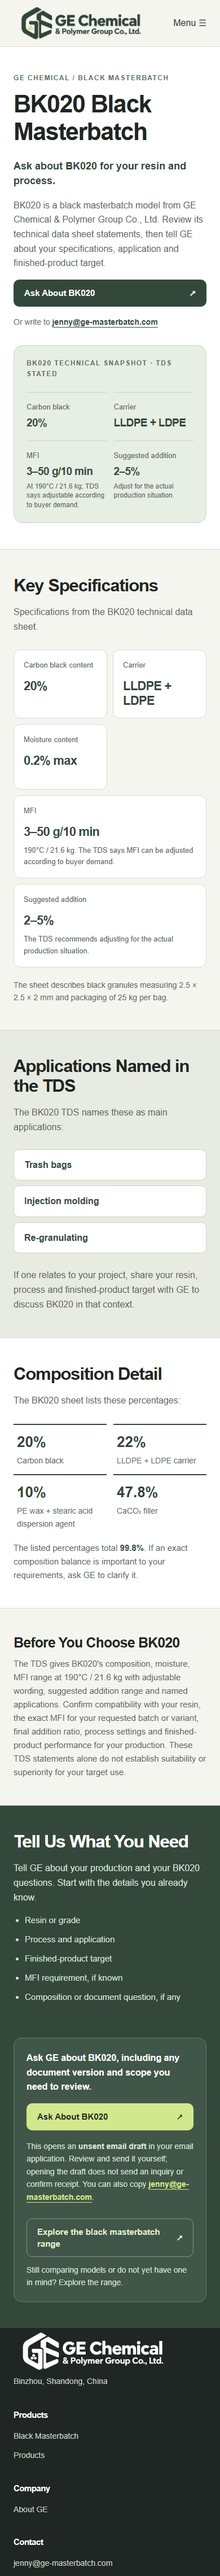
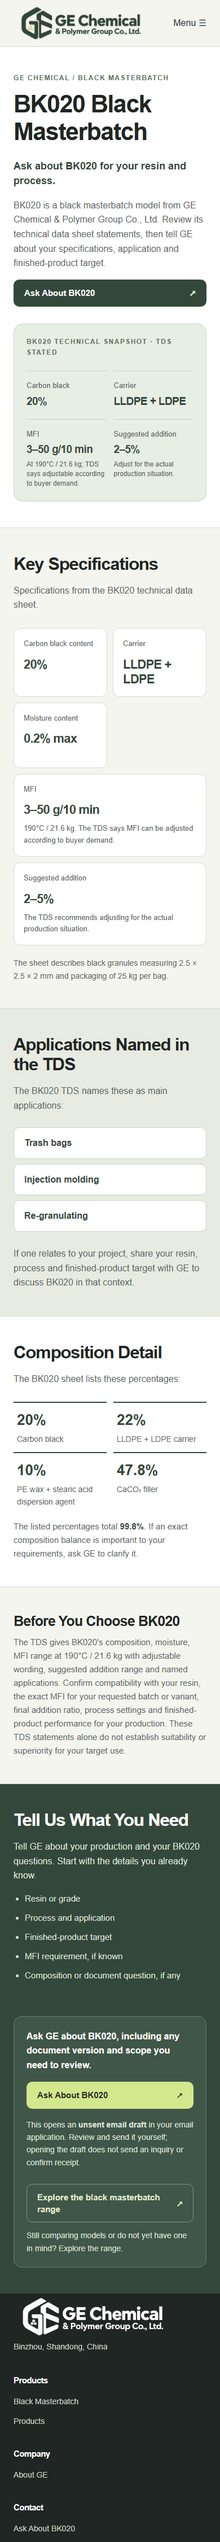
Remove displayed email from P017 visual

diff --git a/planning/visuals/P017/p017-visual.html b/planning/visuals/P017/p017-visual.html
@@ -1,10 +1,10 @@
 <!doctype html><html lang="en"><head><meta charset="utf-8"><meta name="viewport" content="width=device-width, initial-scale=1"><title>BK020 Black Masterbatch | GE Chemical</title><meta name="description" content="Explore BK020 black masterbatch: composition, moisture, MFI and TDS-stated uses. Discuss your resin, process and target with GE."><link rel="stylesheet" href="p017-visual.css"></head><body>
 <header class="site-header"><div class="shell header-inner"><a class="brand" href="/" aria-label="GE Chemical homepage"><img src="../P001/assets/ge-logo-candidate.png" alt="GE Chemical &amp; Polymer Group Co., Ltd."></a><nav class="desktop-nav" aria-label="Primary navigation"><a href="/products/black-masterbatch/">Black Masterbatch</a><a href="/products/">Products</a><a href="/applications/">Applications</a><a href="/about/">About GE</a></nav><a class="header-inquiry" href="mailto:jenny@ge-masterbatch.com?subject=BK020%20evaluation%20question">Ask About BK020 ↗</a><details class="mobile-menu"><summary>Menu ☰</summary><nav aria-label="Mobile navigation"><a href="/products/black-masterbatch/">Black Masterbatch</a><a href="/products/">Products</a><a href="/applications/">Applications</a><a href="/about/">About GE</a><a href="mailto:jenny@ge-masterbatch.com?subject=BK020%20evaluation%20question">Ask About BK020</a></nav></details></div></header>
 <main>
-<section class="hero module"><div class="shell hero-layout"><div class="hero-copy"><p class="eyebrow">GE Chemical / Black masterbatch</p><h1>BK020 Black Masterbatch</h1><p class="lead">Ask about BK020 for your resin and process.</p><p>BK020 is a black masterbatch model from GE Chemical &amp; Polymer Group Co., Ltd. Review its technical data sheet statements, then tell GE about your specifications, application and finished-product target.</p><a class="btn primary" href="mailto:jenny@ge-masterbatch.com?subject=BK020%20evaluation%20question">Ask About BK020 <span aria-hidden="true">↗</span></a><p class="direct">Or write to <a href="mailto:jenny@ge-masterbatch.com">jenny@ge-masterbatch.com</a></p></div><div class="snapshot"><p class="snapshot-label">BK020 technical snapshot · TDS stated</p><div class="snapshot-grid"><div><span>Carbon black</span><strong>20%</strong></div><div><span>Carrier</span><strong>LLDPE + LDPE</strong></div><div><span>MFI</span><strong>3–50 g/10 min</strong><small>At 190°C / 21.6 kg; TDS says adjustable according to buyer demand.</small></div><div><span>Suggested addition</span><strong>2–5%</strong><small>Adjust for the actual production situation.</small></div></div></div></div></section>
+<section class="hero module"><div class="shell hero-layout"><div class="hero-copy"><p class="eyebrow">GE Chemical / Black masterbatch</p><h1>BK020 Black Masterbatch</h1><p class="lead">Ask about BK020 for your resin and process.</p><p>BK020 is a black masterbatch model from GE Chemical &amp; Polymer Group Co., Ltd. Review its technical data sheet statements, then tell GE about your specifications, application and finished-product target.</p><a class="btn primary" href="mailto:jenny@ge-masterbatch.com?subject=BK020%20evaluation%20question">Ask About BK020 <span aria-hidden="true">↗</span></a></div><div class="snapshot"><p class="snapshot-label">BK020 technical snapshot · TDS stated</p><div class="snapshot-grid"><div><span>Carbon black</span><strong>20%</strong></div><div><span>Carrier</span><strong>LLDPE + LDPE</strong></div><div><span>MFI</span><strong>3–50 g/10 min</strong><small>At 190°C / 21.6 kg; TDS says adjustable according to buyer demand.</small></div><div><span>Suggested addition</span><strong>2–5%</strong><small>Adjust for the actual production situation.</small></div></div></div></div></section>
 <section class="specs module"><div class="shell"><div class="intro"><h2>Key Specifications</h2><p>Specifications from the BK020 technical data sheet.</p></div><div class="spec-grid"><div class="spec"><span>Carbon black content</span><strong>20%</strong></div><div class="spec"><span>Carrier</span><strong>LLDPE + LDPE</strong></div><div class="spec"><span>Moisture content</span><strong>0.2% max</strong></div><div class="spec"><span>MFI</span><strong>3–50 g/10 min</strong><p>190°C / 21.6 kg. The TDS says MFI can be adjusted according to buyer demand.</p></div><div class="spec"><span>Suggested addition</span><strong>2–5%</strong><p>The TDS recommends adjusting for the actual production situation.</p></div></div><p class="minor-detail">The sheet describes black granules measuring 2.5 × 2.5 × 2 mm and packaging of 25 kg per bag.</p></div></section>
 <section class="uses module"><div class="shell"><div class="intro"><h2>Applications Named in the TDS</h2><p>The BK020 TDS names these as main applications:</p></div><div class="use-grid"><div>Trash bags</div><div>Injection molding</div><div>Re-granulating</div></div><p class="use-note">If one relates to your project, share your resin, process and finished-product target with GE to discuss BK020 in that context.</p></div></section>
 <section class="composition module"><div class="shell"><div class="intro"><h2>Composition Detail</h2><p>The BK020 sheet lists these percentages:</p></div><div class="composition-grid"><div><strong>20%</strong><span>Carbon black</span></div><div><strong>22%</strong><span>LLDPE + LDPE carrier</span></div><div><strong>10%</strong><span>PE wax + stearic acid dispersion agent</span></div><div><strong>47.8%</strong><span>CaCO₃ filler</span></div></div><p class="composition-note">The listed percentages total <strong>99.8%</strong>. If an exact composition balance is important to your requirements, ask GE to clarify it.</p></div></section>
 <section class="boundary module"><div class="shell boundary-inner"><h2>Before You Choose BK020</h2><p>The TDS gives BK020's composition, moisture, MFI range at 190°C / 21.6 kg with adjustable wording, suggested addition range and named applications. Confirm compatibility with your resin, the exact MFI for your requested batch or variant, final addition ratio, process settings and finished-product performance for your production. These TDS statements alone do not establish suitability or superiority for your target use.</p></div></section>
-<section class="contact module"><div class="shell contact-grid"><div><h2>Tell Us What You Need</h2><p>Tell GE about your production and your BK020 questions. Start with the details you already know.</p><ul class="hint-list"><li>Resin or grade</li><li>Process and application</li><li>Finished-product target</li><li>MFI requirement, if known</li><li>Composition or document question, if any</li></ul></div><div class="contact-action"><p>Ask GE about BK020, including any document version and scope you need to review.</p><a class="btn primary" href="mailto:jenny@ge-masterbatch.com?subject=BK020%20evaluation%20question">Ask About BK020 <span aria-hidden="true">↗</span></a><p class="mailto-note">This opens an <strong>unsent email draft</strong> in your email application. Review and send it yourself; opening the draft does not send an inquiry or confirm receipt. You can also copy <a href="mailto:jenny@ge-masterbatch.com">jenny@ge-masterbatch.com</a>.</p><a class="btn secondary" href="/products/black-masterbatch/">Explore the black masterbatch range <span aria-hidden="true">↗</span></a><p class="secondary-note">Still comparing models or do not yet have one in mind? Explore the range.</p></div></div></section>
-</main><footer class="site-footer"><div class="shell footer-grid"><div class="footer-identity"><a class="brand" href="/" aria-label="GE Chemical homepage"><img src="../P001/assets/ge-logo-candidate.png" alt="GE Chemical &amp; Polymer Group Co., Ltd."></a><p>Binzhou, Shandong, China</p></div><div><h3>Products</h3><a href="/products/black-masterbatch/">Black Masterbatch</a><a href="/products/">Products</a></div><div><h3>Company</h3><a href="/about/">About GE</a></div><div><h3>Contact</h3><a href="mailto:jenny@ge-masterbatch.com">jenny@ge-masterbatch.com</a></div></div></footer></body></html>
+<section class="contact module" id="bk020-inquiry"><div class="shell contact-grid"><div><h2>Tell Us What You Need</h2><p>Tell GE about your production and your BK020 questions. Start with the details you already know.</p><ul class="hint-list"><li>Resin or grade</li><li>Process and application</li><li>Finished-product target</li><li>MFI requirement, if known</li><li>Composition or document question, if any</li></ul></div><div class="contact-action"><p>Ask GE about BK020, including any document version and scope you need to review.</p><a class="btn primary" href="mailto:jenny@ge-masterbatch.com?subject=BK020%20evaluation%20question">Ask About BK020 <span aria-hidden="true">↗</span></a><p class="mailto-note">This opens an <strong>unsent email draft</strong> in your email application. Review and send it yourself; opening the draft does not send an inquiry or confirm receipt.</p><a class="btn secondary" href="/products/black-masterbatch/">Explore the black masterbatch range <span aria-hidden="true">↗</span></a><p class="secondary-note">Still comparing models or do not yet have one in mind? Explore the range.</p></div></div></section>
+</main><footer class="site-footer"><div class="shell footer-grid"><div class="footer-identity"><a class="brand" href="/" aria-label="GE Chemical homepage"><img src="../P001/assets/ge-logo-candidate.png" alt="GE Chemical &amp; Polymer Group Co., Ltd."></a><p>Binzhou, Shandong, China</p></div><div><h3>Products</h3><a href="/products/black-masterbatch/">Black Masterbatch</a><a href="/products/">Products</a></div><div><h3>Company</h3><a href="/about/">About GE</a></div><div><h3>Contact</h3><a href="#bk020-inquiry">Ask About BK020</a></div></div></footer></body></html>

diff --git a/planning/pages/P017.md b/planning/pages/P017.md
@@ -216,3 +216,5 @@ Owner-directed Gate 3 revision, 2026-10-03: The owner requested a more compact i
 Latest owner-directed Gate 3 inquiry revision, 2026-10-03: The owner explicitly authorized changes to buyer-visible headings, CTA wording, microcopy, module order and conversion path while retaining the approved product facts. The revised candidate uses one Hero technical snapshot and `Ask About BK020`, followed by Key Specifications, Applications Named in the TDS, Composition Detail, a compact Before You Choose BK020 note, and Tell Us What You Need. The inquiry context covers resin/grade, process/application, finished-product target, an MFI requirement if known, and composition/document questions if any; buyers may start with the details they already know. The composition percentages are displayed separately, with the listed 99.8% total as supporting clarification. No product photograph, extra use, performance, fit, document, supply or response promise was added.
 
 The amended buyer-visible language is a Gate 3 candidate in `../visuals/P017/p017-visual.html`; the earlier approved Full Copy above remains the factual reference. Reconcile the approved presentation wording into that single Full Copy section after owner visual confirmation and before implementation. Independent read-only buyer-language review of the final visual source returned `REVIEW_READY` with no required findings. The 1440/768/390 exports were rendered and inspected; no horizontal overflow or failed logo loading was observed. Email actions still open an unsent draft and the P013 range route remains the secondary exit; P005/P033/P006 body entrances remain conditional. These checks do not measure inquiry conversion, establish mail delivery or verify WordPress behavior. Owner review of this latest complete static draft is next. `Status: PLANNED`.
+
+Owner email-display correction, 2026-10-03: Following “邮箱不要了。没必要的。” the visual removes the publicly displayed address and direct-email alternatives from Hero, closing copy and footer. The footer now points to the page's BK020 inquiry section. Pending clarification of whether the owner also intends to replace the action channel, the Ask About BK020 buttons retain their existing mailto behavior with an accurate unsent-draft explanation; no unbuilt form is substituted. All three static exports were regenerated without horizontal overflow. `Status: PLANNED`.
